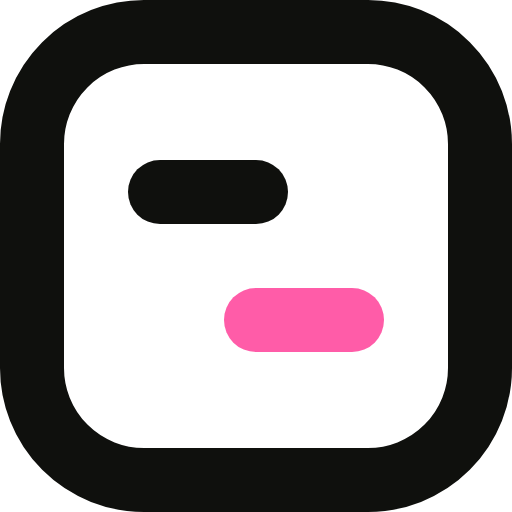
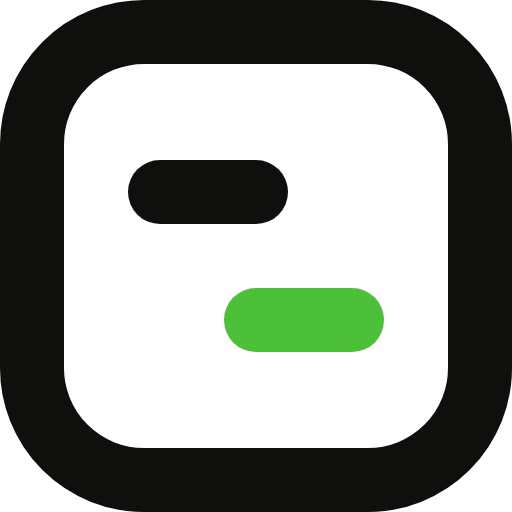
Use a green accent in light and teal in dark
The maintainer chose the accent per theme: #7cdf64 in light and
#14b8a6 in dark. brand.css now sets --accent per theme, with
--accent-strong #2b7f1c in light (5.1:1 on white) for outlines, check
icons and the focus ring, and ink text on the fill in both themes
(11.4:1 on the green, 7.6:1 on the teal; white on the teal would be
2.5:1). The logo's second line is #4cc038 in light so it holds up on
white, and the teal in dark; the favicon and PNG icons follow.

In dark, the site shows the Codex tile on a steel tint, because the
teal accent sat too close to its teal identity tint. The product's
identity tints are unchanged.

Changed region(s): [[0.4375, 0.5625, 0.75, 0.6875]]

diff --git a/site/src/styles/brand.css b/site/src/styles/brand.css
@@ -8,10 +8,16 @@
 
   Palette
   - Neutrals are near-white and near-black with a faint olive cast; never pure #fff/#000.
-  - One signature accent, --accent. It is a fill under ink text, never text on the page.
-    It marks what needs a person (an ask, a "needs you" count), the primary button, the
-    focus ring and text selection. Everything else stays neutral. Change the accent in
-    one line below; keep it light enough for 4.5:1 with --on-accent.
+  - One signature accent per theme: green #7cdf64 in light, teal #14b8a6 in dark. It is a
+    fill under ink text (--on-accent; 11.4:1 on the green, 7.6:1 on the teal; white on
+    the teal would be 2.5:1, so ink is used in both themes). It marks what needs a person
+    (an ask, a "needs you" count), the primary button, the focus ring and text selection.
+    Everything else stays neutral.
+  - --accent-strong is the accent for lines and small text on the page: a darker green
+    in light (#2b7f1c, 5.1:1 on white, so it also passes as text), the teal itself in dark
+    (7.8:1 on the dark background). Use it for outlines, check icons and the focus ring.
+  - To recolour the brand, change --accent and --accent-strong in the light block and
+    --accent in the two dark blocks below.
   - Identity colours id-1…8 tell senders apart and mean nothing else (unchanged from
     the board view).
 
@@ -22,7 +28,8 @@
 
   Logo
   - The mark is a rounded room holding two lines of conversation: the earlier line in
-    ink, the later one in the accent (--mark-reply). Files: /favicon.svg (adapts to
+    ink, the later one in the accent (--mark-reply: #4cc038 in light, a step darker than
+    the fill so it holds up on white; the teal in dark). Files: /favicon.svg (adapts to
     light and dark), /favicon-32.png, /icon-192.png, /icon-512.png, /apple-touch-icon.png,
     and the Mark component (src/components/Mark.astro). The wordmark is "aboard" in
     Geist 700, lowercase, tracking -0.03em.
@@ -44,14 +51,14 @@
 }
 
 :root {
-  /* The signature accent: change this line to recolour the brand. */
-  --accent: #ff5ca8;
+  /* The signature accent, light theme. Dark theme values are in the blocks below. */
+  --accent: #7cdf64;
+  --accent-strong: #2b7f1c;  /* new: accent lines, check icons, focus ring; 5.1:1 on white */
+  --mark-reply: #4cc038;     /* new: the logo's second line */
 
-  --on-accent: #0f100d;                                         /* new: text on an accent fill */
-  --accent-strong: color-mix(in oklab, var(--accent) 78%, #000); /* new: accent strokes on light grounds (3:1) */
-  --accent-soft: color-mix(in srgb, var(--accent) 22%, transparent); /* new: mentions, focus glow */
-  --attention: var(--accent);                                   /* what needs a person */
-  --mark-reply: var(--accent);                                  /* new: the logo's second line */
+  --on-accent: #0f100d;                                           /* new: text on an accent fill */
+  --accent-soft: color-mix(in srgb, var(--accent) 30%, transparent); /* new: mentions, focus glow */
+  --attention: var(--accent);                                     /* what needs a person */
 
   --font-sans: "Geist", ui-sans-serif, sans-serif;
   --font-mono: "Geist Mono", ui-monospace, "SF Mono", Menlo, monospace;
@@ -85,8 +92,10 @@
 
 :root[data-theme="dark"] {
   color-scheme: dark;
+  --accent: #14b8a6;
   --accent-strong: var(--accent);
-  --accent-soft: color-mix(in srgb, var(--accent) 30%, transparent);
+  --mark-reply: var(--accent);
+  --accent-soft: color-mix(in srgb, var(--accent) 28%, transparent);
   --background: #0c0d0a;
   --surface: #131410;
   --sidebar: #10110d;
@@ -111,8 +120,10 @@
 @media (prefers-color-scheme: dark) {
   :root:not([data-theme="light"]) {
     color-scheme: dark;
+    --accent: #14b8a6;
     --accent-strong: var(--accent);
-    --accent-soft: color-mix(in srgb, var(--accent) 30%, transparent);
+    --mark-reply: var(--accent);
+    --accent-soft: color-mix(in srgb, var(--accent) 28%, transparent);
     --background: #0c0d0a;
     --surface: #131410;
     --sidebar: #10110d;

diff --git a/site/src/styles/global.css b/site/src/styles/global.css
@@ -677,6 +677,11 @@ code, kbd { font-family: var(--mono); font-size: 0.86em; }
 .band-col { padding-top: 104px; }
 @media (min-width: 1100px) { .band-col { padding-top: 136px; } }
 
+/* In dark, the teal accent sits too close to the Codex tile's teal tint (id-5), so the
+   site shows Codex on a steel tint there. The product's identity tints are unchanged. */
+:root[data-theme="dark"] .t5 { --t5b: #26323c; --t5f: #c9d8e4; }
+@media (prefers-color-scheme: dark) { :root:not([data-theme="light"]) .t5 { --t5b: #26323c; --t5f: #c9d8e4; } }
+
 /* ---------- Motion preferences ---------- */
 
 @media (prefers-reduced-motion: reduce) {
